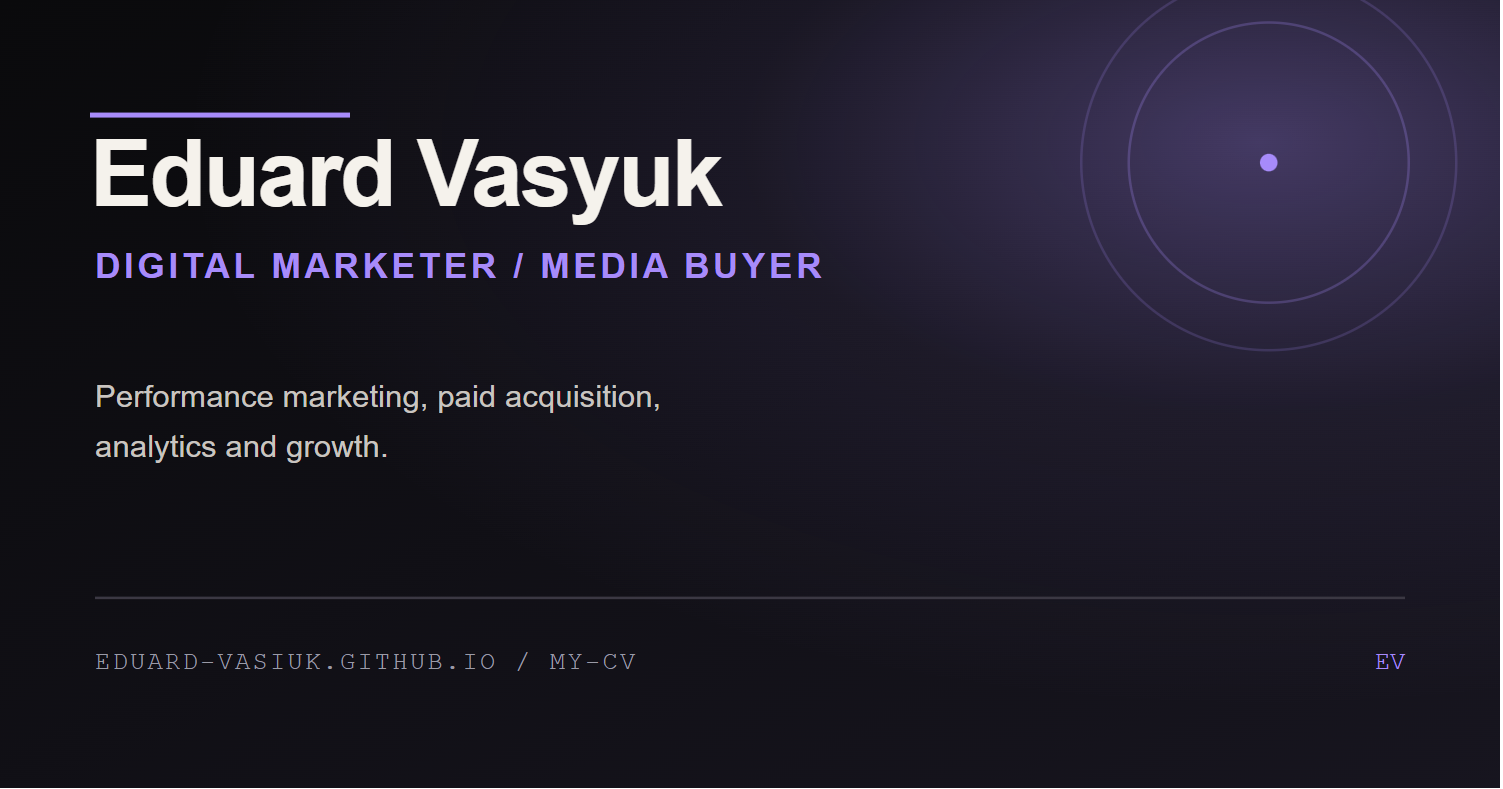
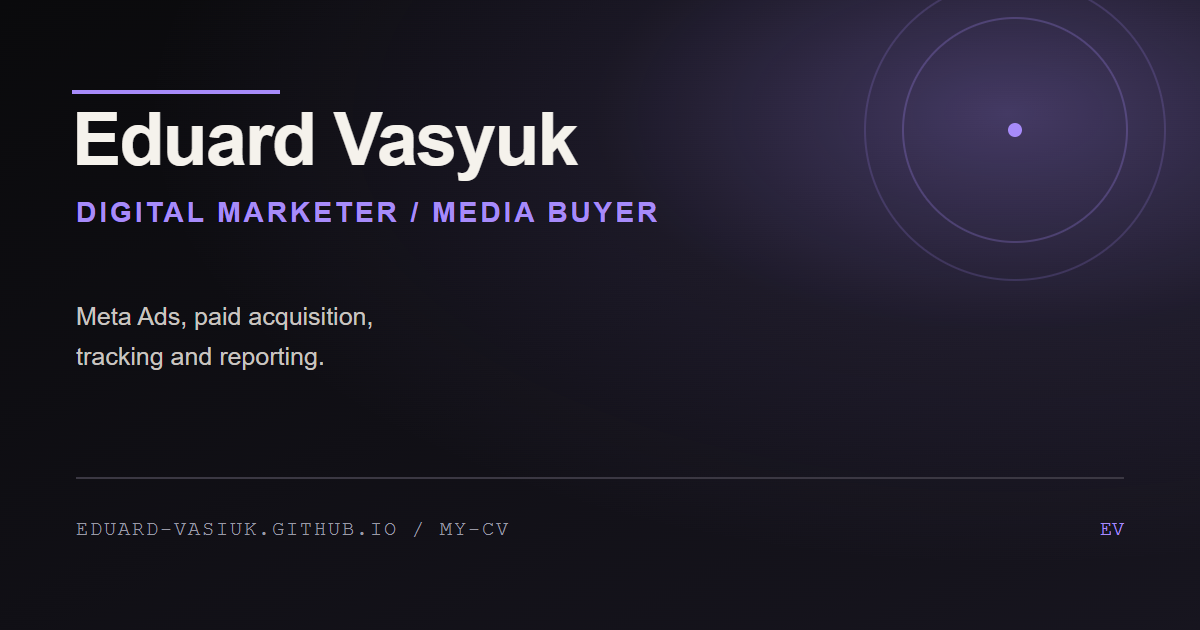
Refresh Telegram preview image

diff --git a/index.html b/index.html
@@ -12,8 +12,9 @@
   <meta id="meta-og-title" property="og:title" content="Eduard Vasyuk | Junior Media Buyer">
   <meta id="meta-og-description" property="og:description" content="Meta Ads, Google Ads, AppsFlyer attribution, recurring reporting and practical marketing automation.">
   <meta property="og:url" content="https://eduard-vasiuk.github.io/my-cv/">
-  <meta property="og:image" content="https://eduard-vasiuk.github.io/my-cv/og-image.png">
-  <meta property="og:image:secure_url" content="https://eduard-vasiuk.github.io/my-cv/og-image.png">
+  <meta property="og:image" content="https://eduard-vasiuk.github.io/my-cv/og-image.png?v=2">
+  <meta property="og:image:secure_url" content="https://eduard-vasiuk.github.io/my-cv/og-image.png?v=2">
+  <meta property="og:image:alt" content="Eduard Vasyuk, Junior Media Buyer focused on Meta Ads and paid acquisition">
   <meta property="og:image:width" content="1200">
   <meta property="og:image:height" content="630">
   <meta property="og:image:type" content="image/png">
@@ -22,7 +23,7 @@
   <meta name="twitter:card" content="summary_large_image">
   <meta id="meta-twitter-title" name="twitter:title" content="Eduard Vasyuk | Junior Media Buyer">
   <meta id="meta-twitter-description" name="twitter:description" content="Meta Ads, Google Ads, AppsFlyer attribution, recurring reporting and practical marketing automation.">
-  <meta name="twitter:image" content="https://eduard-vasiuk.github.io/my-cv/og-image.png">
+  <meta name="twitter:image" content="https://eduard-vasiuk.github.io/my-cv/og-image.png?v=2">
   <script type="application/ld+json">{"@context":"https://schema.org","@type":"Person","name":"Eduard Vasyuk","jobTitle":"Junior Media Buyer","url":"https://eduard-vasiuk.github.io/my-cv/","sameAs":["https://github.com/Eduard-Vasiuk"],"knowsAbout":["Meta Ads","Google Ads","Paid Acquisition","AppsFlyer","Marketing Automation"]}</script>
   <style>
     .language-switcher { display: inline-flex; gap: 3px; padding: 3px; border: 1px solid var(--line); border-radius: 999px; }
